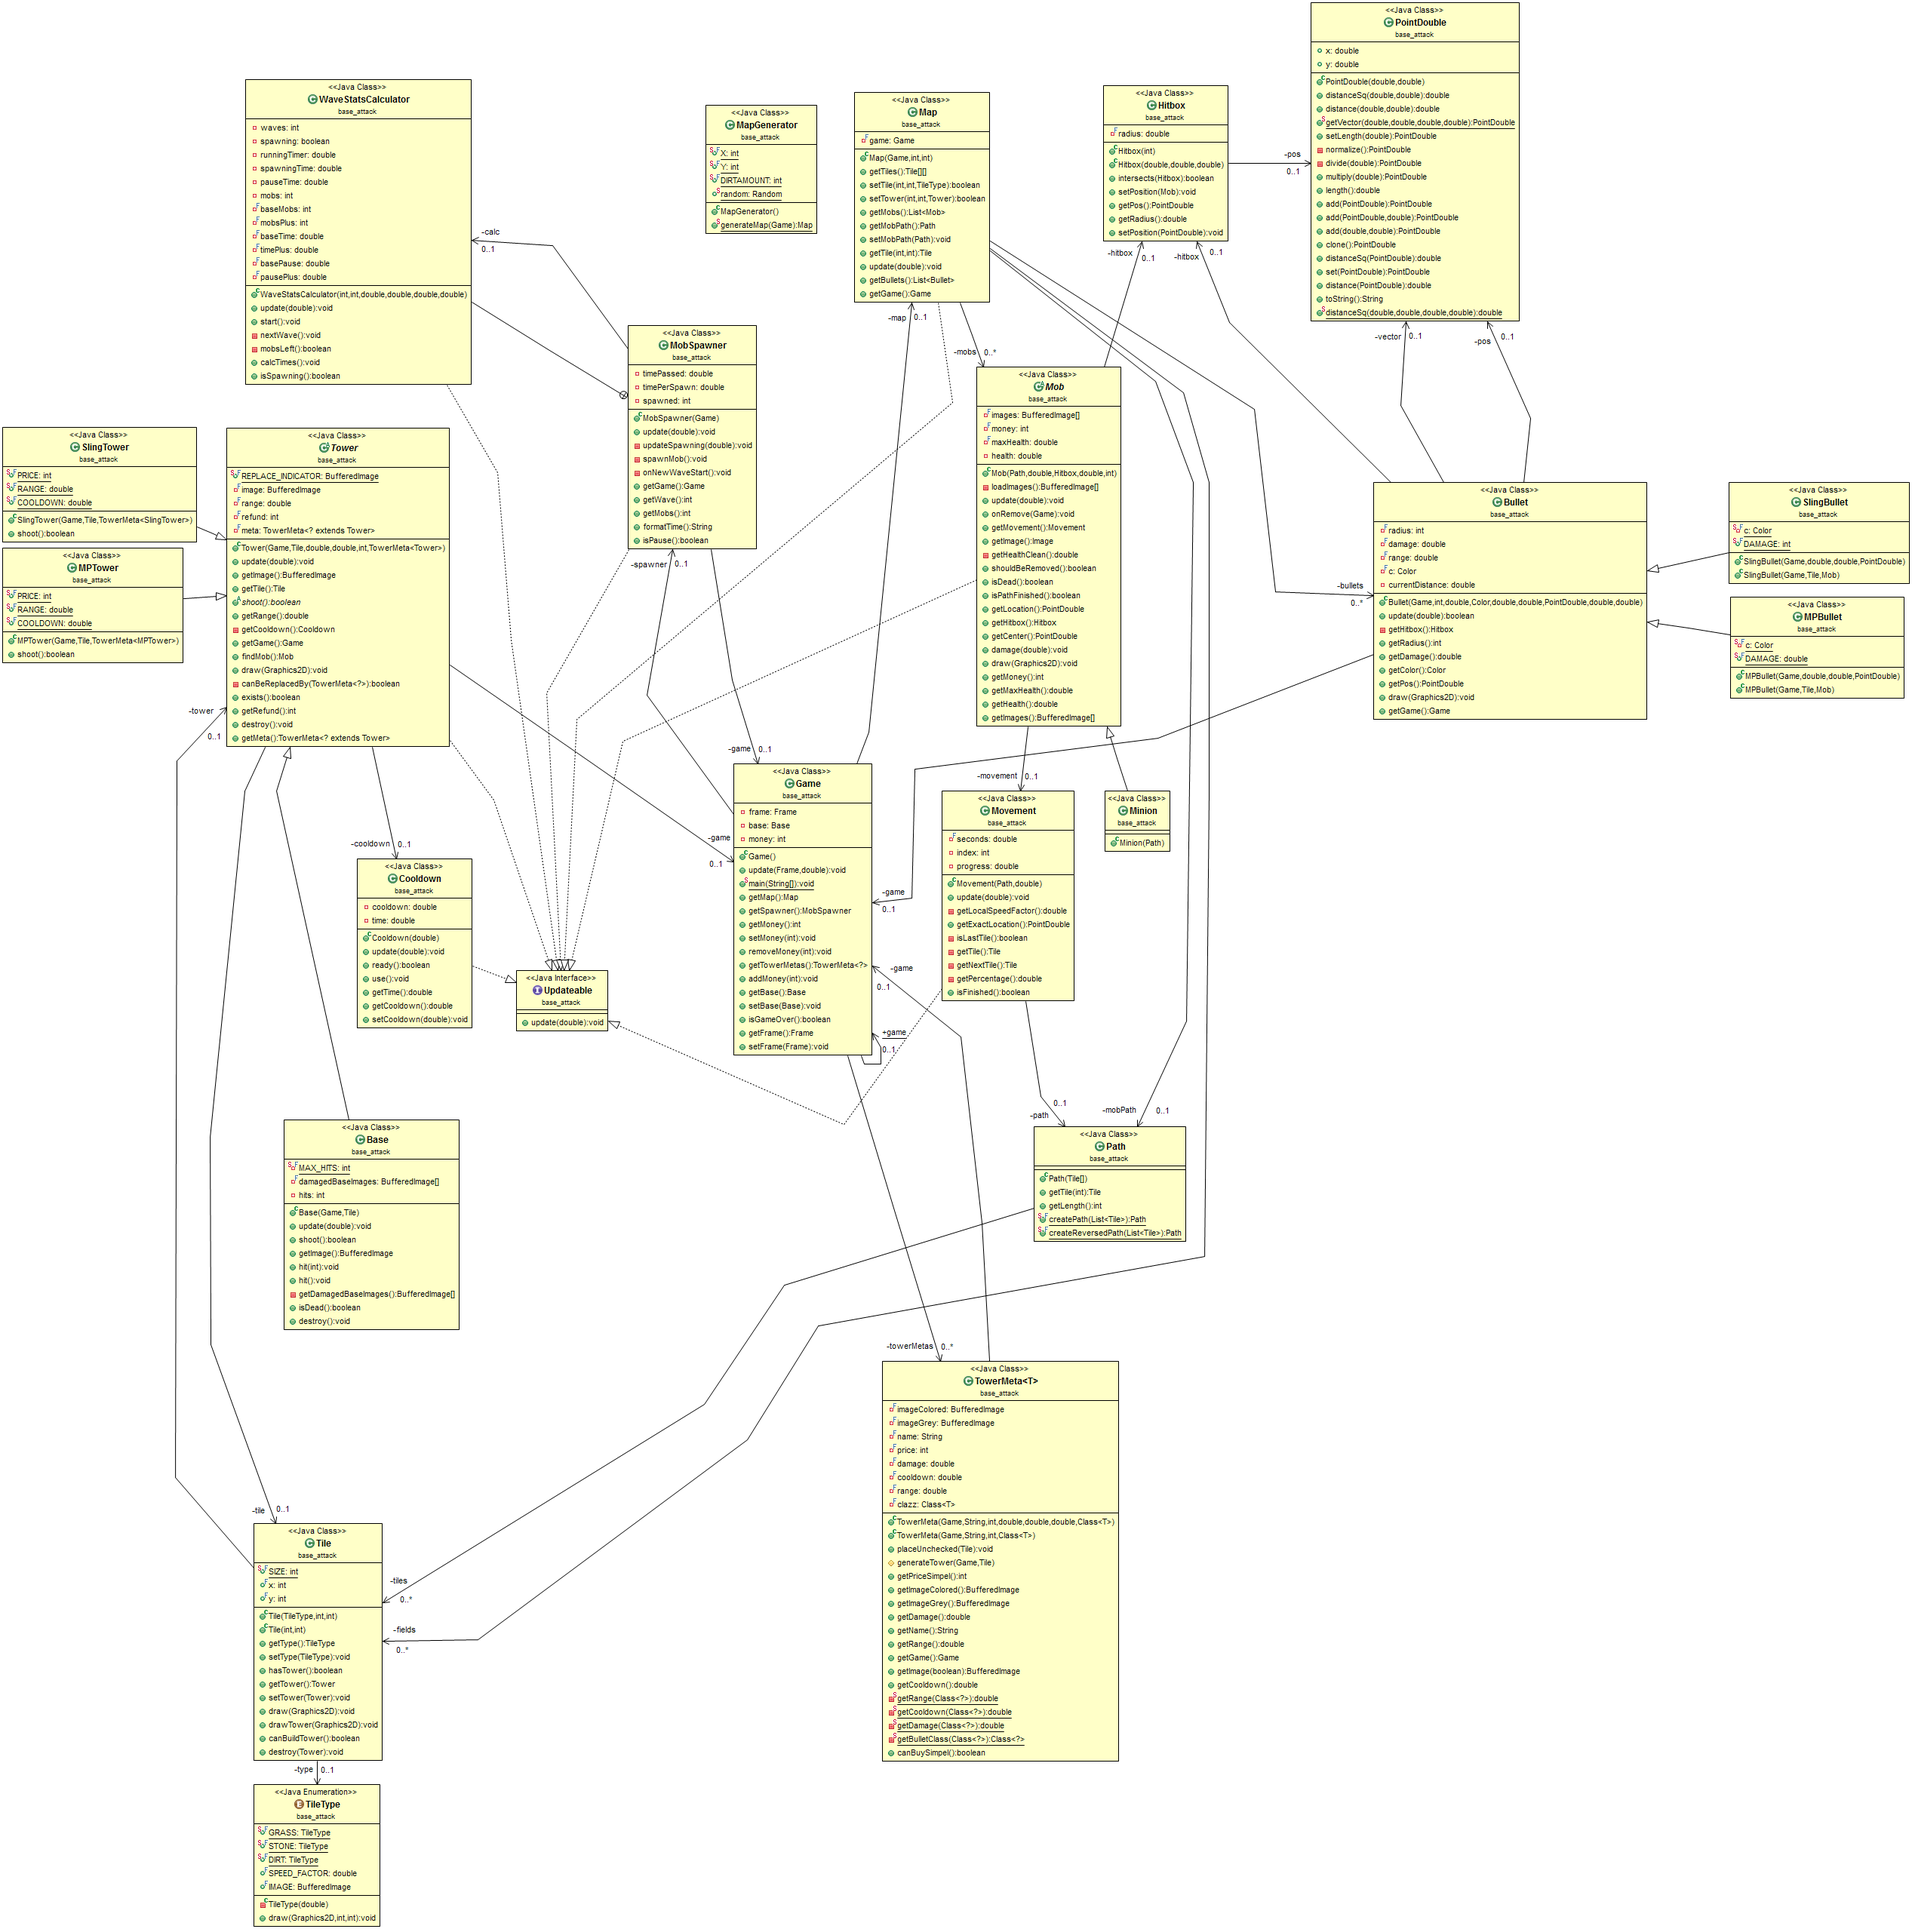
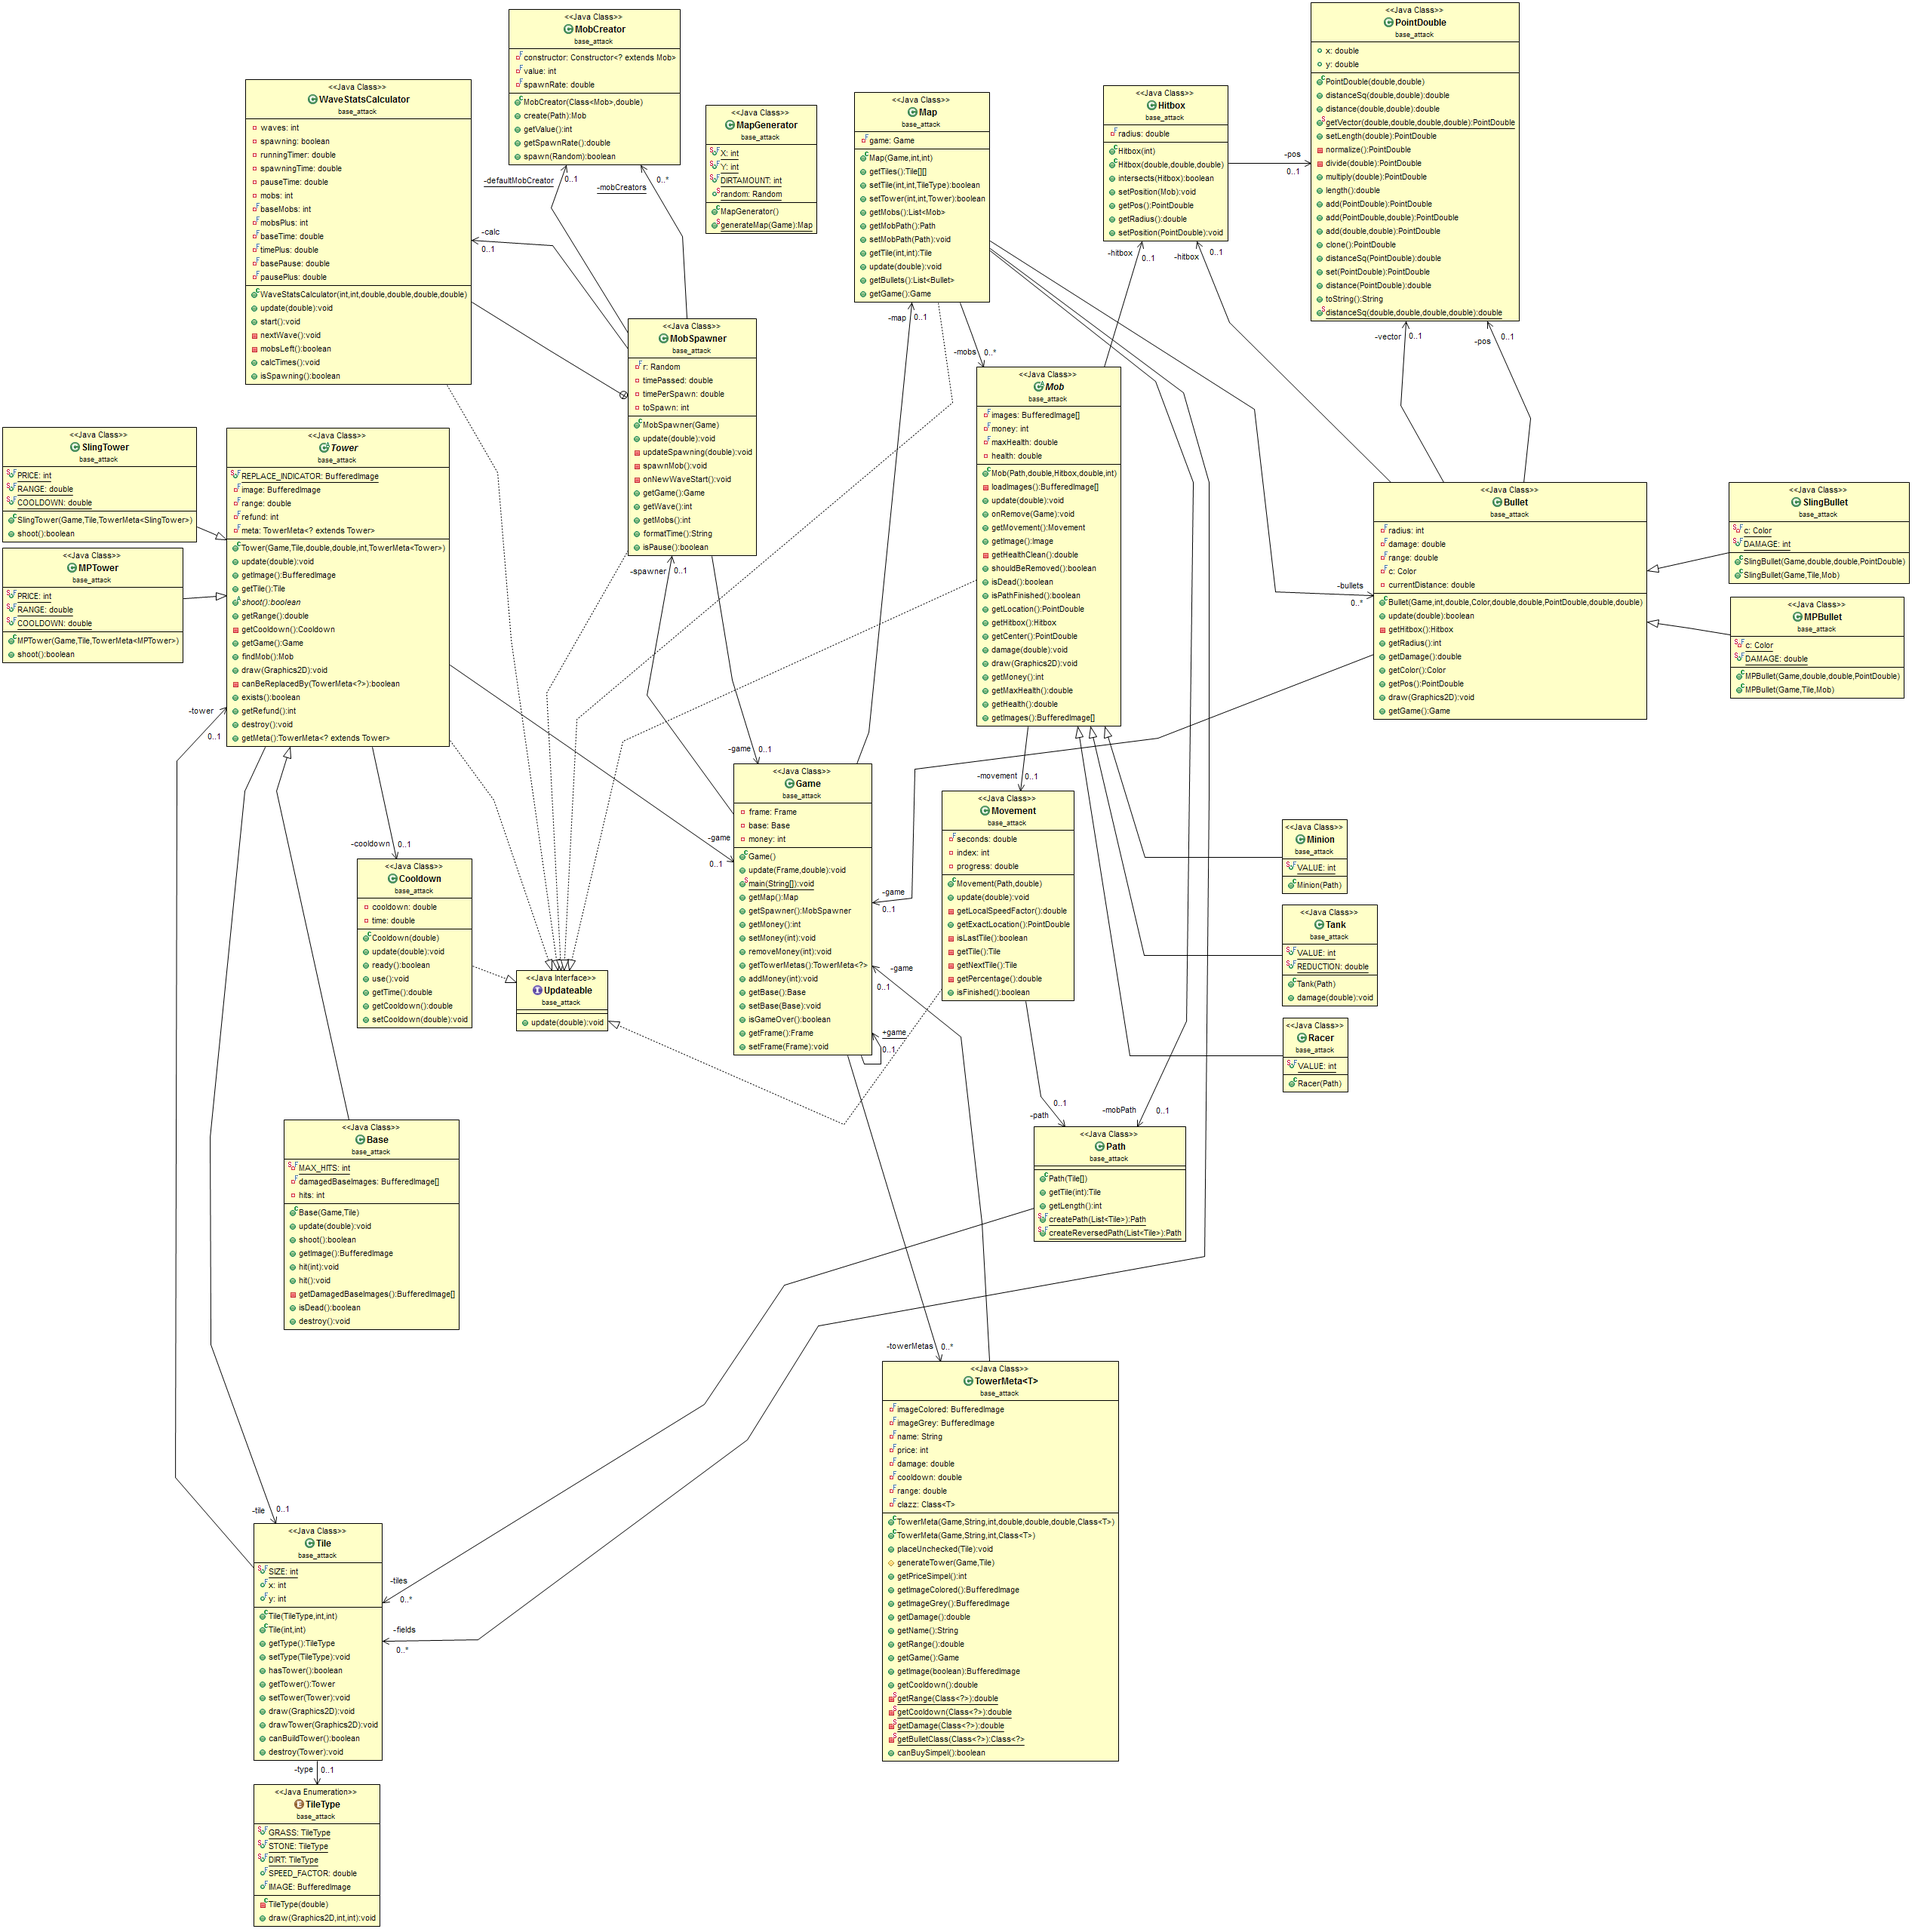
Content Creation: 2 new mobs(Tank, Racer) + UML Update

diff --git a/src/base_attack/MobSpawner.java b/src/base_attack/MobSpawner.java
@@ -1,12 +1,23 @@
 package base_attack;
 
+import java.util.Random;
+
 public class MobSpawner implements Updateable {
+
+	private static final MobCreator defaultMobCreator = new MobCreator(Minion.class, 1);
+	
+	private static final MobCreator[] mobCreators = new MobCreator[]{
+		new MobCreator(Tank.class, 0.2),
+		new MobCreator(Racer.class, 0.2)
+	};
+	
+	private final Random r = new Random("BaseAttack".hashCode());
 	
 	private final Game game;
 	private final WaveStatsCalculator calc;
 	private double timePassed;
 	private double timePerSpawn;
-	private int spawned = 0;
+	private int toSpawn;
 	
 	public MobSpawner(Game game) {
 		this.game = game;
@@ -31,7 +42,7 @@ public class MobSpawner implements Updateable {
 		
 		timePassed += t;
 		
-		while(spawned < calc.mobs && timePassed >= timePerSpawn) { //HUGE LAGS => while
+		while(toSpawn > 0 && timePassed >= timePerSpawn) { //HUGE LAGS => while
 			
 			timePassed -= timePerSpawn;
 			spawnMob();
@@ -42,15 +53,30 @@ public class MobSpawner implements Updateable {
 
 	private void spawnMob() {
 		
-		getGame().getMap().getMobs().add(new Minion(getGame().getMap().getMobPath()));
-		spawned++;
+		MobCreator creator = defaultMobCreator;
+		
+//		if(getWave() > 0)
+			for(MobCreator c: mobCreators)
+				
+				if(c.getValue() <= toSpawn && c.spawn(r)) {
+					
+					creator = c;
+					break;
+					
+				}
+		
+		final Mob mob = creator.create(getGame().getMap().getMobPath());
+		
+		toSpawn -= creator.getValue();
+		
+		getGame().getMap().getMobs().add(mob);
 		
 	}
 
 	private void onNewWaveStart() {
 		timePerSpawn = calc.spawningTime / calc.mobs;
 		timePassed = timePerSpawn/2; //FIRST MOBS SPAWNS EARLIER, LAST ONE DOES NOT SPAWN TOO LATE
-		spawned = 0;
+		toSpawn = calc.mobs;
 	}
 	
 	public Game getGame() {

diff --git a/src/base_attack/MobCreator.java b/src/base_attack/MobCreator.java
@@ -1,0 +1,49 @@
+package base_attack;
+
+import java.lang.reflect.Constructor;
+import java.util.Random;
+
+public class MobCreator {
+	
+	private final Constructor<? extends Mob> constructor;
+	private final int value;
+	private final double spawnRate;
+	
+	public MobCreator(Class<? extends Mob> clazz, double spwanRate) {
+		
+		this.spawnRate = spwanRate;
+		
+		try {
+			
+			constructor = clazz.getDeclaredConstructor(Path.class);
+			value = clazz.getDeclaredField("VALUE").getInt(null);
+			
+		} catch (Exception e) {
+			throw new RuntimeException("Error while initiating the MobCreator for " + clazz.getSimpleName(), e);
+		}
+		
+	}
+	
+	public Mob create(Path path) {
+		
+		try {
+			return constructor.newInstance(path);
+		} catch (Exception e) {
+			throw new RuntimeException("Error while calling " + constructor.getName(), e);
+		}
+		
+	}
+	
+	public int getValue() {
+		return value;
+	}
+	
+	public double getSpawnRate() {
+		return spawnRate;
+	}
+	
+	public boolean spawn(Random r) {
+		return r.nextDouble() < getSpawnRate();
+	}
+
+}

diff --git a/src/base_attack/Tank.java b/src/base_attack/Tank.java
@@ -1,0 +1,35 @@
+package base_attack;
+
+/**
+ * 
+ * A 'Tank' reduces the damage from each hit by a constant amount (max. 50% damage reduction)
+ *
+ */
+public class Tank extends Mob {
+
+	public static final int VALUE = 3;
+	
+	public static final double REDUCTION = 0.1;
+	
+	public Tank(Path path) {
+		super(path, 2, new Hitbox(20), 9, VALUE);
+	}
+	
+	@Override
+	public void damage(double damage) {
+		
+		if(damage == 0)
+			return;
+		
+		if(damage < 0)
+			throw new IllegalArgumentException();
+		
+		final double maxReduction = damage * 0.5;
+		
+		final double reduction = REDUCTION > maxReduction ? maxReduction : REDUCTION;
+		
+		super.damage(damage - reduction);
+		
+	}
+
+}

diff --git a/src/base_attack/Mob.java b/src/base_attack/Mob.java
@@ -127,7 +127,15 @@ public abstract class Mob implements Updateable {
 	}
 
 	public void damage(double damage) {
+		
+		if(damage == 0)
+			return;
+		
+		if(damage < 0)
+			throw new IllegalStateException();
+		
 		health -= damage;
+		
 	}
 
 	public void draw(Graphics2D g) {

diff --git a/src/base_attack/Minion.java b/src/base_attack/Minion.java
@@ -1,9 +1,11 @@
 package base_attack;
 
 public class Minion extends Mob {
+	
+	public static final int VALUE = 1;
 
 	public Minion(Path path) {
-		super(path, 1.7, new Hitbox(17), 3, 1);
+		super(path, 1.7, new Hitbox(17), 3, VALUE);
 	}
 
 }

diff --git a/src/base_attack/Racer.java b/src/base_attack/Racer.java
@@ -1,0 +1,11 @@
+package base_attack;
+
+public class Racer extends Mob {
+	
+	public static final int VALUE = 2;
+
+	public Racer(Path path) {
+		super(path, 1, new Hitbox(11), 1.5, VALUE);
+	}
+
+}
